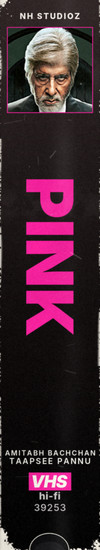
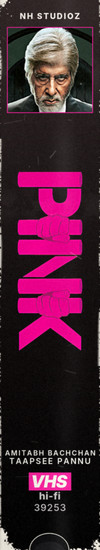
2016 shelf, batch 6: titles lifted or cut off the posters
Claude-Session: https://claude.ai/code/session_01RnhGoM3q9rJViPw2yFGMgc

Changed region(s): [[0.15, 0.3091, 0.84, 0.6491]]

diff --git a/spinegen/tapes.py b/spinegen/tapes.py
@@ -5077,21 +5077,21 @@ std('the-handmaiden-2016', ('grad', [(0, (40, 34, 30)), (.6, (14, 12, 10)), (1, 
     photo=ph(.5, .6, .45, 1.0), pb=(200, 170, 90), lg=WHT, lw=.6, order='LPTCF', credit=['A PARK CHAN-WOOK', 'FILM'], ccol=(232, 222, 192),
     ft='a', vbox=(200, 170, 90), vink=(14, 12, 10), fcol=(200, 196, 186), fin=MINT, under=[frame((200, 170, 90), 8, 1.4)])
 
-# The Scavengers (1992): the poster is Boca de Lixo's, so the spine is too: white, black serif (typeset), the balloons and the vulture
+# The Scavengers (1992): the poster is Boca de Lixo's, so the spine is too: white, its black serif BOCA DE LIXO lifted (THE SCAVENGERS typeset under it: the English title isn't on the poster), the balloons and the vulture
 std('the-scavengers-1992', ('grad', [(0, (246, 246, 244)), (.6, (224, 224, 220)), (1, (150, 150, 146))]), (20, 20, 20),
-    [T('BOCA DE LIXO', 'terb', 76, (20, 20, 20)), T('THE SCAVENGERS', 'her', 26, (20, 20, 20), track=.3)], tgap=8,
+    [L((0.12, 0.05, 0.86, 0.11), 76, (20, 20, 20), mode='dark'), T('THE SCAVENGERS', 'her', 26, (20, 20, 20), track=.3)], tgap=8,
     photo=ph(.5, .3, .6, 1.0), pb=(20, 20, 20), order='PTCF', credit=['AN EDUARDO COUTINHO', 'FILM'], ccol=(20, 20, 20),
     ft='e', fcol=(20, 20, 20), fin=OLD, seed=1992)
 
-# Pink (2016): the courtroom's dark, the hot-pink heavy capitals (typeset), Deepak (no logo file: its company in type)
+# Pink (2016): the courtroom's dark, the poster's hot-pink PINK with its clenched fists cut off it in its own colours, Deepak (no logo file: its company in type)
 std('pink-2016', ('grad', [(0, (50, 40, 40)), (.6, (18, 14, 14)), (1, (4, 4, 4))]), (240, 30, 150),
-    T('PINK', 'intbk', 130, (244, 34, 156)),
+    LC([(0.225, 0.7, 0.775, 0.845)], 130, cuts=[key_cut(lambda a: (_sat(a) > .4) & (a[..., 0] > .45) & (a[..., 2] > .25) & (a[..., 1] < a[..., 0] * .55))]),
     photo=ph(.5, .2, .5, 1.0), pb=(244, 34, 156), studio=['NH STUDIOZ'], scol=WHT, order='lPTCF', credit=['AMITABH BACHCHAN', 'TAAPSEE PANNU'], ccol=WHT,
     ft='a', vbox=(244, 34, 156), fcol=(200, 196, 196), fin=SLIP)
 
-# Salaam Bombay! (1988): an old tape, black, white and grey serif capitals (typeset), Krishna at the window
+# Salaam Bombay! (1988): an old tape, black, white and grey serif capitals, Krishna at the window
 std('salaam-bombay-1988', ('grad', [(0, (50, 40, 30)), (.6, (16, 12, 10)), (1, (4, 4, 4))]), WHT,
-    TT([('SALAAM', WHT), ('BOMBAY!', (190, 190, 190))], 'ter', 76, sp=.25),
+    L([(0.08, 0.1, 0.59, 0.17), (0.365, 0.168, 0.91, 0.235)], 76, [WHT, (190, 190, 190)], mode='light', gapf=.35),
     photo=ph(.3, .55, .5, 1.0), pb=WHT, lg=WHT, lw=.6, order='LPTCSF', credit=['A MIRA NAIR', 'FILM'], ccol=WHT,
     stick=PRC(['$1.99', 'FOREIGN']), ft='e', fcol=(210, 200, 190), fin=OLD, seed=1988)
 
